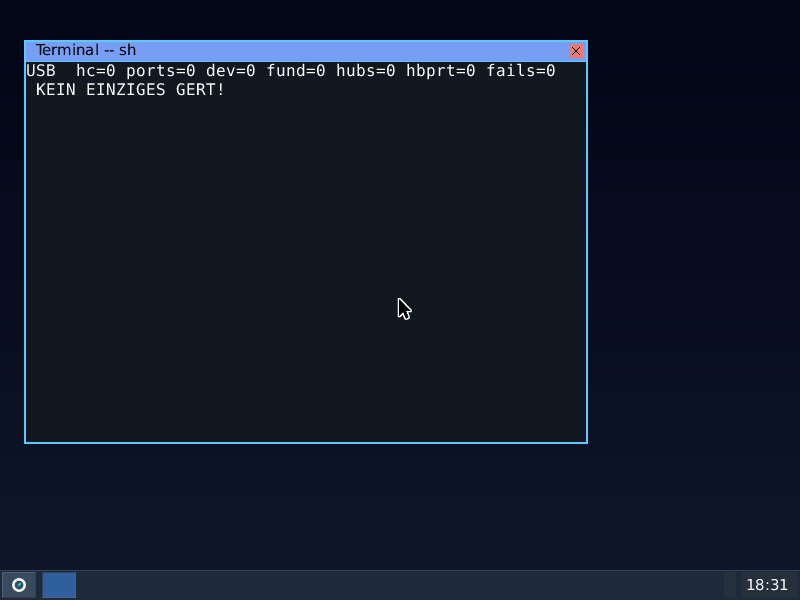
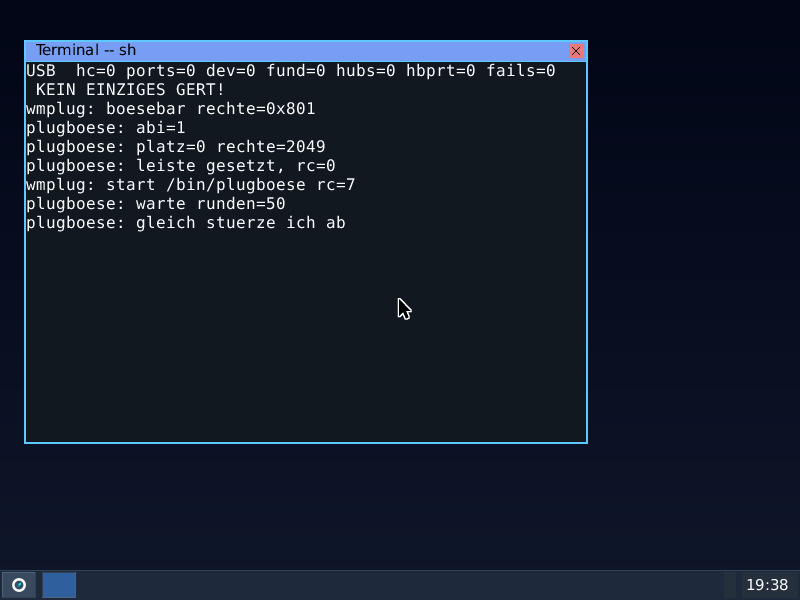
wmplugin: die zwei Fotos des Absturzlaufs und die Schlusszahl des Laeufers
tools/wmplug/run.sh: 193 bestanden, 0 gescheitert (117 Kernseite, der
Rest aus regel.sh und widget.sh). docs/shots/wmplug/vor-absturz.png
zeigt das besetzte Leistenfeld, nach-absturz.png dieselbe Stelle nach
dem SIGSEGV -- checkshot punkt (670,585): [38 48 60] gegen [30 41 59].

Changed region(s): [[0.0312, 0.15, 0.4375, 0.39], [0.25, 0.15, 0.375, 0.21], [0.9375, 0.96, 1.0, 0.99]]

diff --git a/docs/RUNDE-WMPLUGIN.md b/docs/RUNDE-WMPLUGIN.md
@@ -727,9 +727,11 @@ Aussage der Abschnitte aendert sich dadurch nicht.
 ## 14. Nachbesserung R2-2: der Autostart, das Leserecht, die Frist je Plugin und die Schwelle
 
 Vier Maengel, vier Belege. Alle Zeilen unten stammen aus
-`bash tools/wmplug/run.sh` auf diesem Stand (117 Zusagen der Kernseite,
-0 gescheitert); die Abbilder baut der Laeufer je Lauf neu, weil die
-Autostart-Liste jetzt IM Abbild liegt.
+`bash tools/wmplug/run.sh` auf diesem Stand -- **193 bestanden, 0
+gescheitert** im ganzen Lauf (117 davon auf der Kernseite, der Rest aus
+den beiden Modullaeufern `regel.sh` und `widget.sh`). Die Abbilder baut
+der Laeufer je Lauf neu, weil die Autostart-Liste jetzt IM Abbild
+liegt.
 
 ### 14.1 Autostart statt Starthelfer — Abkuerzung 2 ist weg
 
